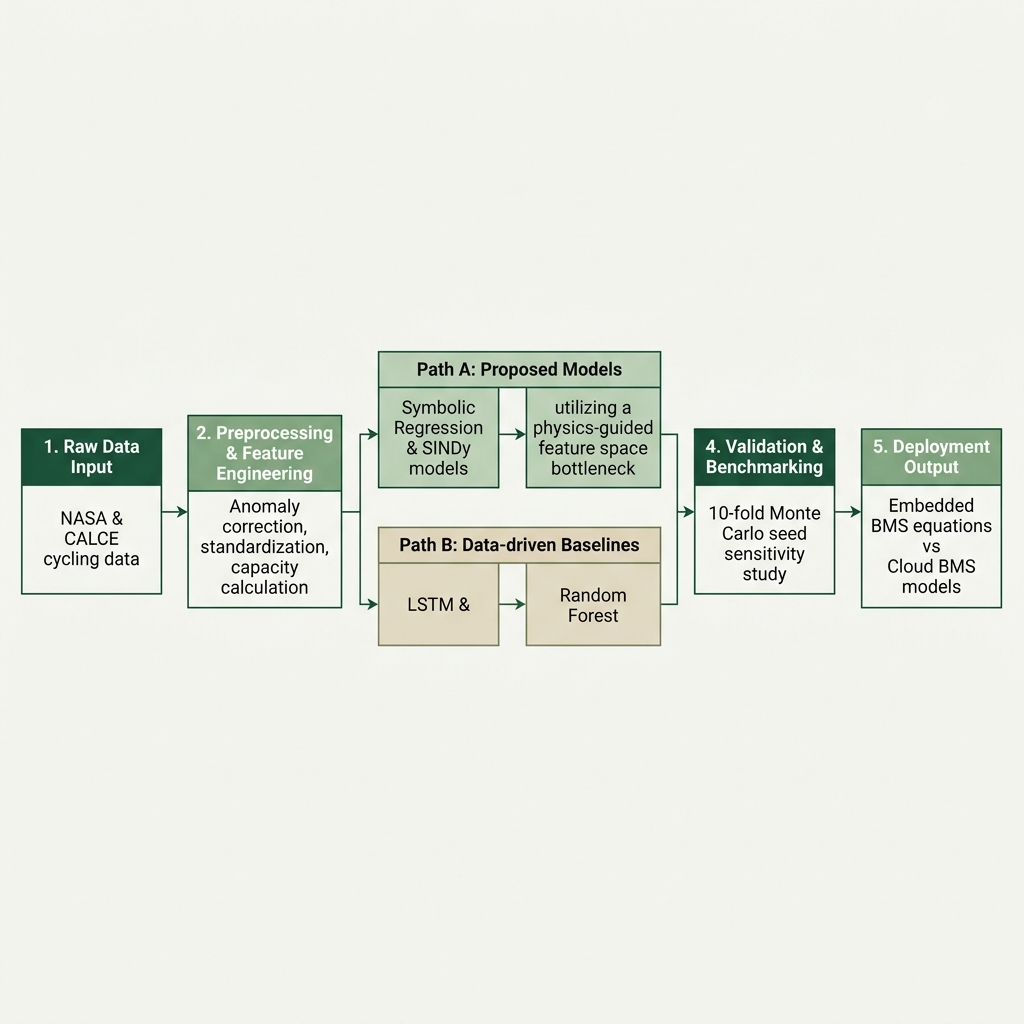
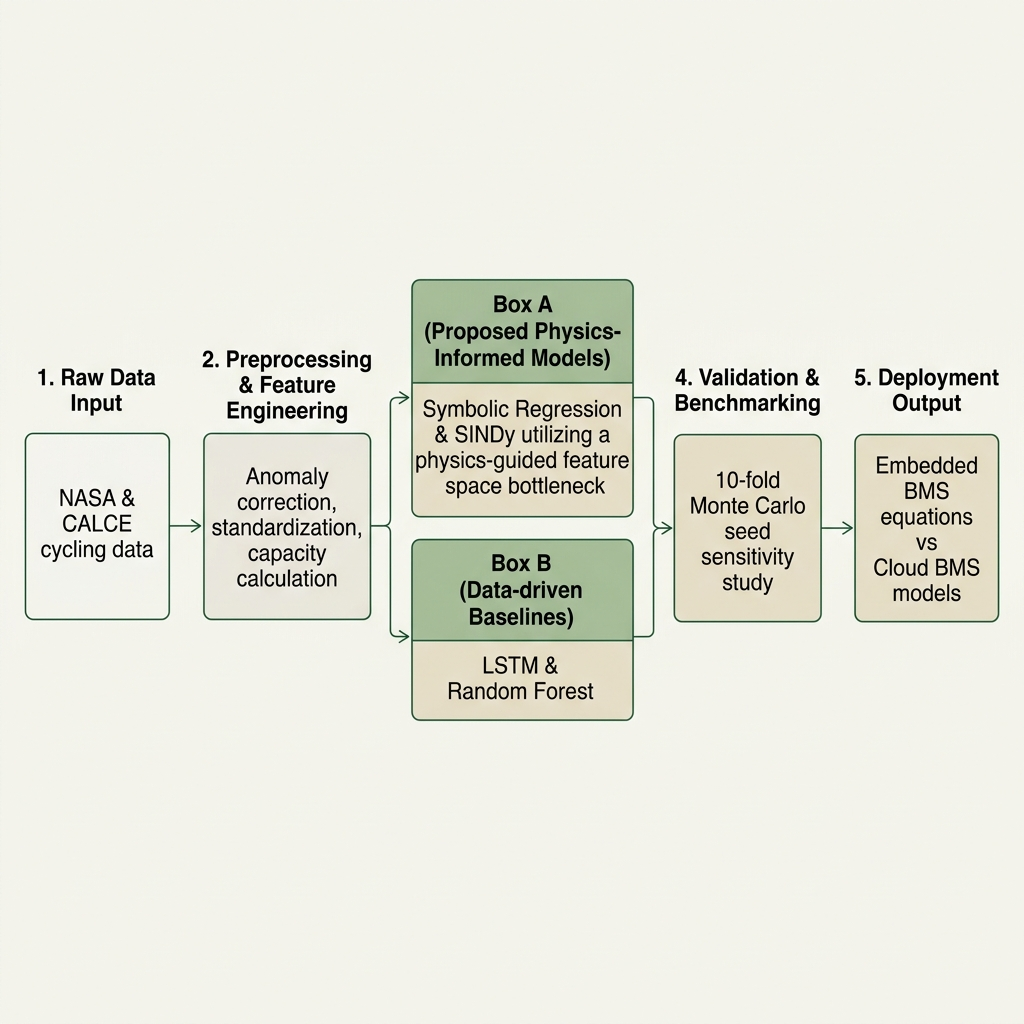
Refactor modeling script to output LSTM convergence curves, update methodology flowchart to Nature style, and ignore data files

Changed region(s): [[0.0, 0.25, 1.0, 0.7188]]

diff --git a/battery_symbolic_sindy.py b/battery_symbolic_sindy.py
@@ -406,6 +406,10 @@ def run_lstm(train_df, test_df, feat_cols, target='SOH', window=10, epochs=100, 
     # Training loop with early stopping
     best_loss = float('inf')
     patience_counter = 0
+    y_te = torch.FloatTensor(y_test_seq)
+    train_losses = []
+    val_losses = []
+    
     for epoch in range(epochs):
         model.train()
         epoch_loss = 0
@@ -417,6 +421,16 @@ def run_lstm(train_df, test_df, feat_cols, target='SOH', window=10, epochs=100, 
             optimizer.step()
             epoch_loss += loss.item()
         avg_loss = epoch_loss / len(train_loader)
+        
+        # Validation loss evaluation
+        model.eval()
+        with torch.no_grad():
+            val_pred = model(X_te)
+            val_loss = loss_fn(val_pred, y_te).item()
+            
+        train_losses.append(avg_loss)
+        val_losses.append(val_loss)
+        
         if avg_loss < best_loss - 1e-6:
             best_loss = avg_loss
             patience_counter = 0
@@ -425,6 +439,19 @@ def run_lstm(train_df, test_df, feat_cols, target='SOH', window=10, epochs=100, 
         if patience_counter >= 15:
             print(f"  Early stop at epoch {epoch+1}")
             break
+
+    # Save training convergence plot
+    plt.figure(figsize=(6, 4))
+    plt.plot(range(1, len(train_losses) + 1), train_losses, 'b-', label='Train Loss (MSE)')
+    plt.plot(range(1, len(val_losses) + 1), val_losses, 'r-', label='Val Loss (MSE)')
+    plt.xlabel('Epoch')
+    plt.ylabel('Loss (MSE)')
+    plt.title('LSTM Model Training Convergence')
+    plt.legend()
+    plt.grid(True, alpha=0.3)
+    plt.tight_layout()
+    plt.savefig(os.path.join(REPORTS_DIR, 'lstm_training_curve.png'), dpi=150)
+    plt.close()
 
     # Predict
     model.eval()
